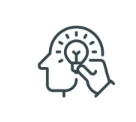
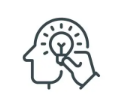
Agregue 4 imagenes con forma de iconos, en el archivo, SOBRE MI.
Ya le aplique el diseño en css.
Lo agregue debajo de la imagen del coach.

Changed region(s): [[0.1736, 0.1415, 0.8678, 0.8491]]

diff --git a/html/sobre-mi.html b/html/sobre-mi.html
@@ -22,7 +22,7 @@
       rel="stylesheet"
     />
     <link rel="stylesheet" href="../css/style.css">
-    <title>SOBRE MI</title>
+    <title>Sobre mi</title>
 </head>
 <body>
     <header class="header">
@@ -82,6 +82,20 @@
             <img class="imagen-coach" src="../img/imagen-2.jpg" alt="Personal coaching">
         </figure>
        </section>
+       <div class="div-icons">
+        <figure>
+            <img class="div-icon-1" src="../img/icono1.png" alt="Leyendo un libro">
+        </figure>
+        <figure>
+            <img class="div-icon-2" src="../img/icono2.png" alt="Crecimiento personal">
+        </figure>
+        <figure>
+            <img class="div-icon-3" src="../img/icono3.png" alt="Ahorros">
+        </figure>
+        <figure>
+            <img class="div-icon-4" src="../img/icono4.png" alt="">
+        </figure>
+       </div>
 
 
       

diff --git a/css/style.css b/css/style.css
@@ -513,6 +513,34 @@ body{
     
 }
 
+.div-icons{
+    display: flex;
+    flex-direction: row;
+    position: relative;
+    justify-content: center;
+    width: 90vw;
+    top: 200px;
+    margin-left: 20px;
+    margin-top: 20px
+}
+
+.div-icon-1{
+    width: 22vw;
+}
+
+.div-icon-2{
+    width: 22vw;
+}
+
+.div-icon-3{
+    width: 22vw;
+}
+
+.div-icon-4{
+    width: 22vw;
+}
+
+
 
 /* --------- Footer ------------- */
 
